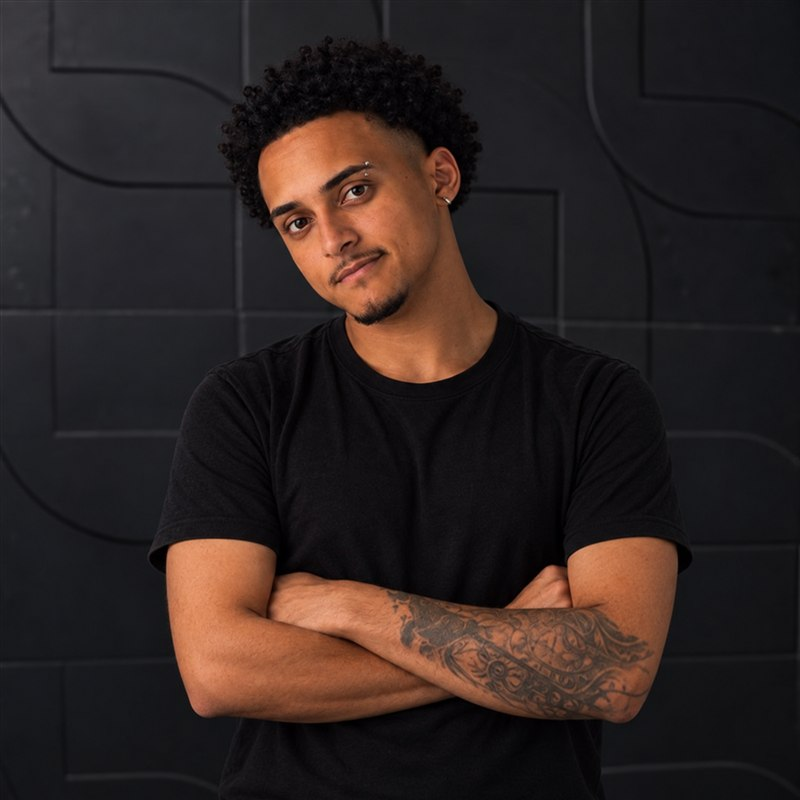
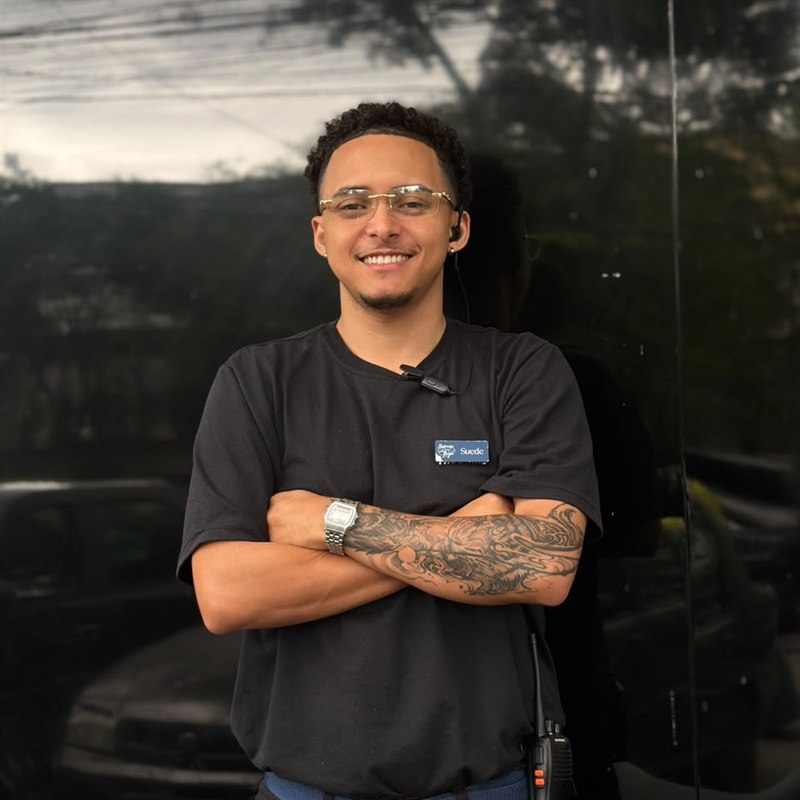
Atualiza fotos da equipe de Alcântara

diff --git a/index.html b/index.html
@@ -893,7 +893,7 @@
         <button class="tab" role="tab" id="tab-mar" aria-controls="team-mar" aria-selected="false">Maricá</button>
       </div>
       <div class="team-grid" id="team-alc" role="tabpanel" aria-labelledby="tab-alc">
-        <figure class="member"><img src="assets/team/alcantara/brian.png" alt="Brian" /><figcaption>Brian</figcaption></figure>
+        <figure class="member"><img src="assets/team/alcantara/brian.jpg" alt="Brian" /><figcaption>Brian</figcaption></figure>
         <figure class="member"><img src="assets/team/alcantara/joao-machado.png" alt="João Machado" /><figcaption>João Machado</figcaption></figure>
         <figure class="member"><img src="assets/team/alcantara/nata.jpg" alt="Natã" /><figcaption>Natã</figcaption></figure>
         <figure class="member"><img src="assets/team/alcantara/richard.jpg" alt="Richard" /><figcaption>Richard</figcaption></figure>
